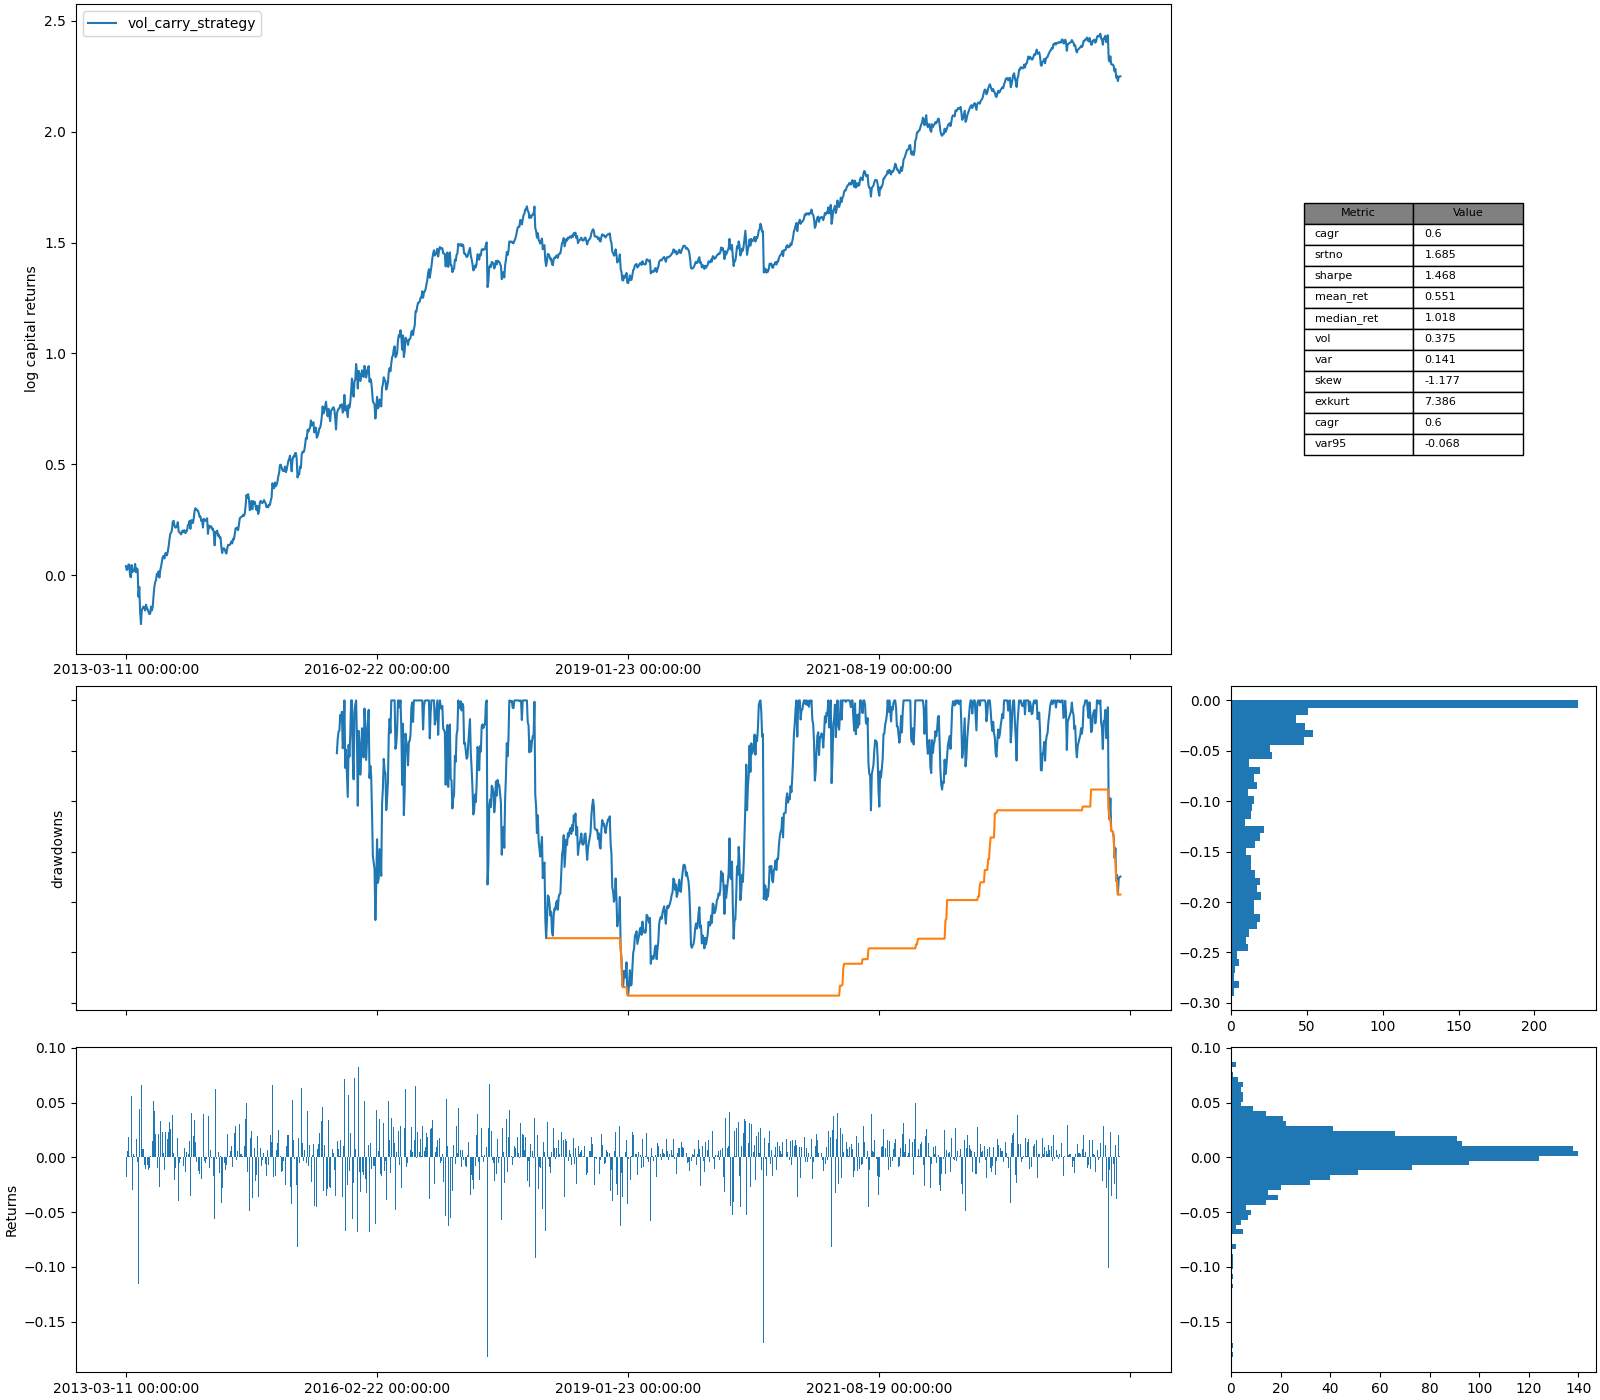
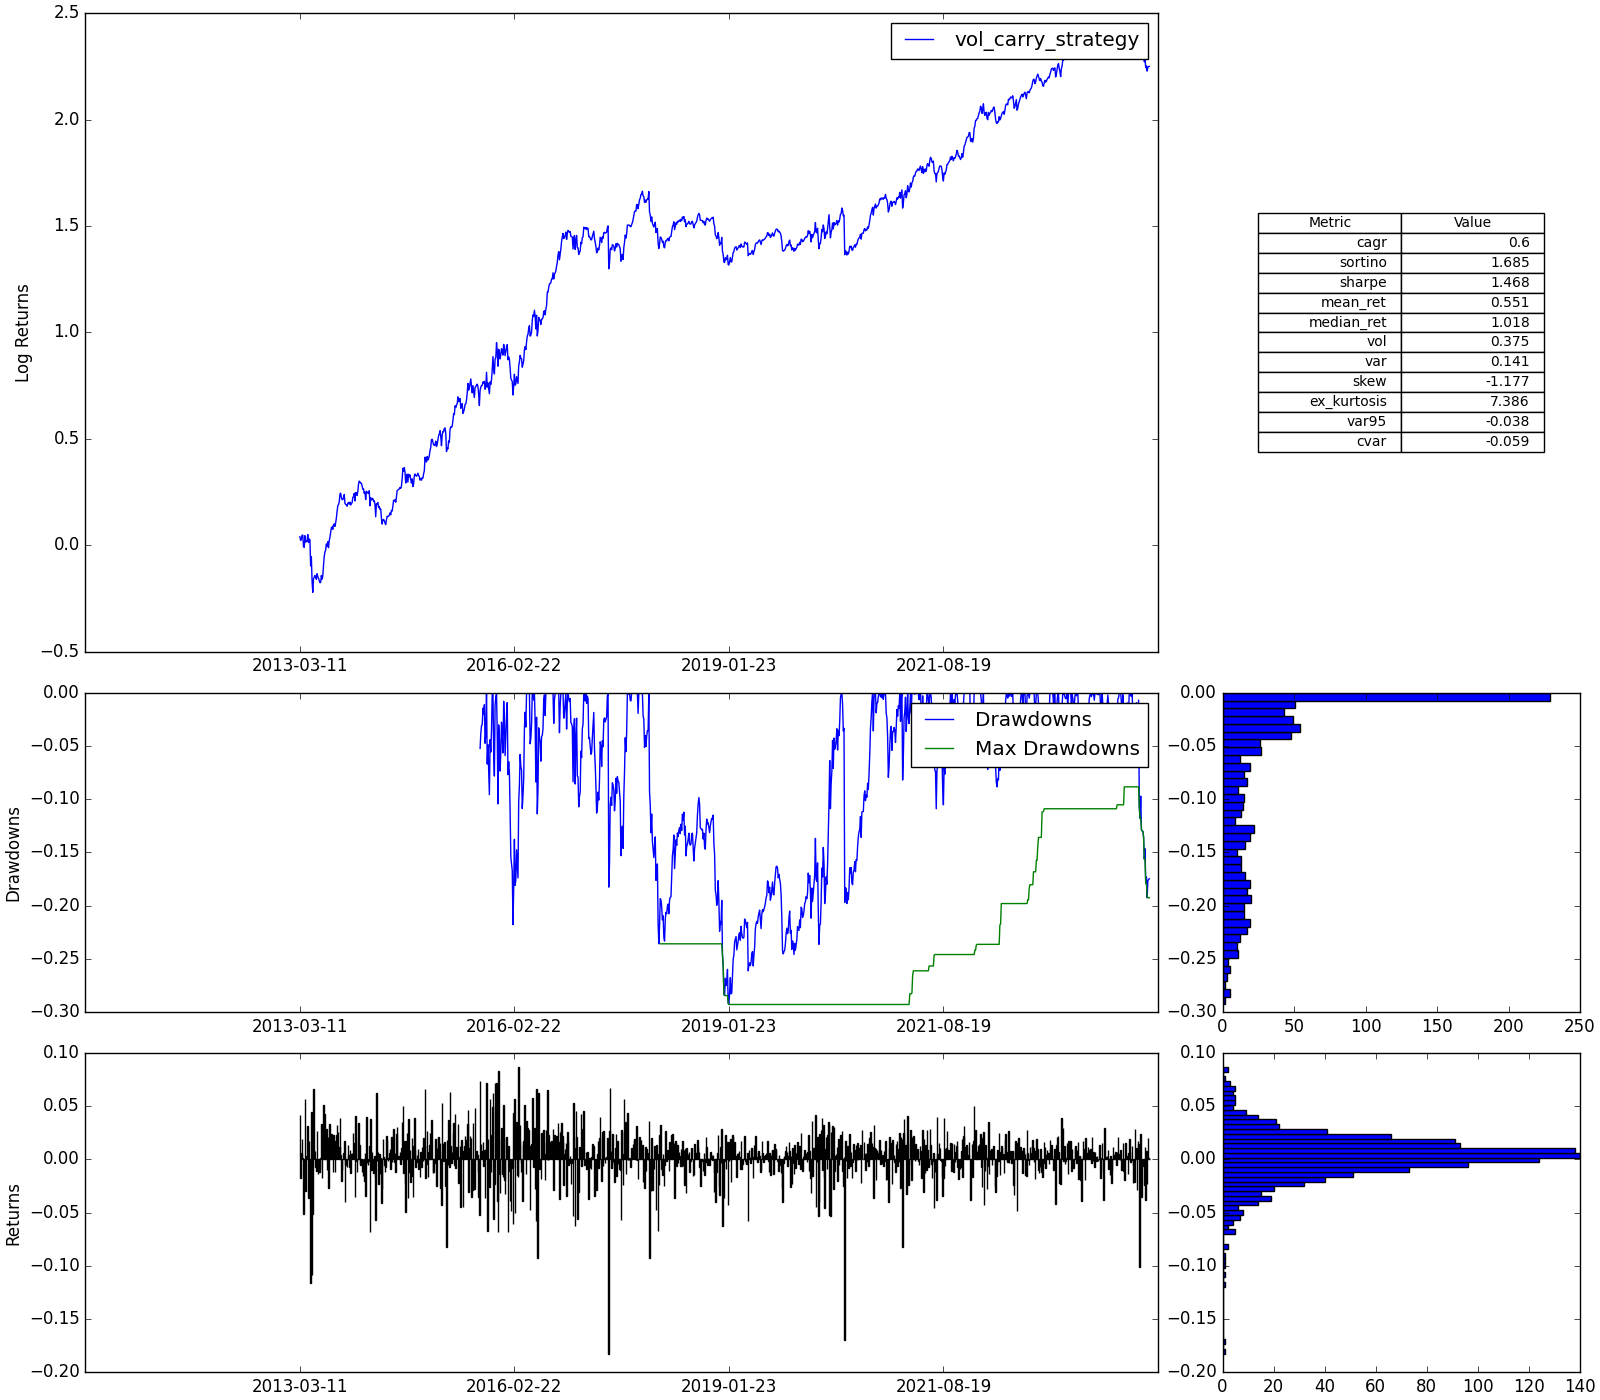
updates

diff --git a/backtester/engine/functions/performance.py b/backtester/engine/functions/performance.py
@@ -7,12 +7,12 @@ import matplotlib.pyplot as plt
 from pathlib import Path
 from typing import Dict, Optional, Union, Tuple
 
-# plt.style.use("seaborn-dark-palette")
+plt.style.use("classic")
 
 def performance_measures(
     r_ser: pd.Series,
     plot: bool = False,
-    path: str = "/images",
+    path: str = "./images",
     market: Optional[Dict[str, pd.Series]] = None,
     show: bool = False,
     strat_name: str = ""
@@ -50,6 +50,8 @@ def performance_measures(
     stdmoment = lambda x, k: moment(x, k) / moment(x, 2) ** (k / 2)
     rolling_drawdown = lambda cr, pr: cr / cr.rolling(pr).max() - 1
     rolling_max_dd = lambda cr, pr: rolling_drawdown(cr, pr).rolling(pr).min()
+    cagr_fn = lambda cr: (cr[-1]/cr[0])**(1/len(cr))-1
+    cagr_ann_fn = lambda cr: ((1+cagr_fn(cr))**253) - 1
 
     # Compute cumulative and log returns
     r = r_ser.values
@@ -67,7 +69,8 @@ def performance_measures(
     variance = vol ** 2
     skewness = stdmoment(r, 3)
     ex_kurtosis = stdmoment(r, 4) - 3
-    cagr = ((cr[-1] / cr[0]) ** (1 / len(cr)) - 1) ** 253  # Annualized CAGR
+    
+    cagr = cagr_ann_fn(cr) # Annualized CAGR
     rolling_cagr = cr_ser.rolling(5 * 253).apply(
         lambda x: ((x[-1] / x[0]) ** (1 / len(x)) - 1) ** 253, raw=True
     )
@@ -77,9 +80,6 @@ def performance_measures(
 
     # Prepare metrics table
     metrics = {
-        "cum_ret": cr,
-        "log_ret": lr,
-        "max_dd": mdd,
         "cagr": cagr,
         "sortino": sortino_ratio,
         "sharpe": sharpe_ratio,
@@ -89,20 +89,19 @@ def performance_measures(
         "var": variance,
         "skew": skewness,
         "ex_kurtosis": ex_kurtosis,
-        "rolling_cagr": rolling_cagr,
-        "rolling_calmar": rolling_calmar,
         "var95": var95,
         "cvar": cvar,
     }
 
     # Plotting performance if requested
     if plot:
-        fig, axes = plt.subplots(4, 4, constrained_layout=True, figsize=(16, 14))
-        idxs = r_ser.index.strftime('%Y-%m-%d %X')
-        strat_names = [strat_name if strat_name else "strategy"]
+        fig = plt.figure(constrained_layout=True, figsize=(16, 14))
+        spec = fig.add_gridspec(4, 4)
 
         # Log returns plot
-        ax1 = fig.add_subplot(axes[0:2, 0:3])
+        ax1 = fig.add_subplot(spec[0:2, 0:3])
+        ax1.xaxis.set_major_locator(plt.MaxNLocator(5))
+        idxs = r_ser.index.strftime('%Y-%m-%d')
         ax1.plot(idxs, lr, label=strat_name)
         if market:
             assert isinstance(market, dict), "Market parameter must be a dictionary of {name: pd.Series}."
@@ -113,31 +112,41 @@ def performance_measures(
         ax1.legend()
 
         # Drawdowns
-        ax2 = fig.add_subplot(axes[2, 0:3], sharex=ax1)
+        ax2 = fig.add_subplot(spec[2, 0:3], sharex=ax1)
+        ax2.xaxis.set_major_locator(plt.MaxNLocator(5))
         ax2.plot(idxs, rolling_drawdown(cr_ser, 253), label="Drawdowns")
         ax2.plot(idxs, rolling_max_dd(cr_ser, 253), label="Max Drawdowns")
         ax2.set_ylabel("Drawdowns")
         ax2.legend()
 
         # Metrics table
+        ax3 = fig.add_subplot(spec[0:2, -1])
         metrics_df = pd.Series(metrics).apply(lambda x: np.round(x, 3)).reset_index()
         metrics_df.columns = ["Metric", "Value"]
-        ax3 = fig.add_subplot(axes[0:2, -1])
         ax3.axis("off")
-        ax3.table(
+        table = ax3.table(
             cellText=metrics_df.values,
             colLabels=metrics_df.columns,
             loc="center",
             colWidths=[0.4, 0.4],
         )
+        table.auto_set_font_size(False)
+        table.set_fontsize(10)
 
-        # Distribution of returns
-        ax4 = fig.add_subplot(axes[2, -1])
+        # Distribution of drawdowns
+        ax4 = fig.add_subplot(spec[2, -1])
         ax4.hist(rolling_drawdown(cr_ser, 253), orientation="horizontal", bins=40)
-        ax5 = fig.add_subplot(axes[-1, 0:3], sharex=ax1)
+
+        # Returns bar chart
+        ax5 = fig.add_subplot(spec[-1, 0:3], sharex=ax1)
+        ax5.xaxis.set_major_locator(plt.MaxNLocator(5))
         ax5.bar(idxs, r)
         ax5.set_ylabel("Returns")
 
+        ax6 = fig.add_subplot(spec[-1,-1], sharey=ax5)
+        ax6.hist(r,orientation='horizontal',bins=60)
+        
+        # Save or show the plot
         if not show:
             Path(os.path.abspath(os.getcwd() + path)).mkdir(parents=True, exist_ok=True)
             fig.savefig(f"{path}/stats_board_{strat_name}.png")
@@ -176,8 +185,8 @@ def plot_hypothesis(
         Saves the plot to a predefined directory.
     """
     # Create output directory if it doesn't exist
-    path = "/images"
-    Path(os.path.abspath(os.getcwd() + path)).mkdir(parents=True, exist_ok=True)
+    path = "./images"
+    # Path(os.path.abspath(os.getcwd() + path)).mkdir(parents=True, exist_ok=True)
 
     # Unpack tuples
     timer_paths, timer_p, timer_dist = timer_tuple
@@ -205,10 +214,10 @@ def plot_hypothesis(
     ax1.legend()
 
     # Plot KDE for distributions
-    input(timer_dist)
-    pd.Series(timer_dist).plot(color='red', ax=ax2, kind='kde', label="Timing Dist")
-    pd.Series(picker_dist).plot(color='blue', ax=ax2, kind='kde', label="Picking Dist")
-    pd.Series(trader_dist).plot(color='green', ax=ax2, kind='kde', label="Trading Dist")
+    dist_check = lambda dist: np.any(np.diff(dist) != 0)
+    if dist_check(timer_dist): pd.Series(timer_dist).plot(color='red', ax=ax2, kind='kde', label="Timing Dist")
+    if dist_check(picker_dist): pd.Series(picker_dist).plot(color='blue', ax=ax2, kind='kde', label="Picking Dist")
+    if dist_check(trader_dist): pd.Series(trader_dist).plot(color='green', ax=ax2, kind='kde', label="Trading Dist")
     strategy_sharpe = np.mean(return_samples.values) / np.std(return_samples.values) * np.sqrt(253)
     ax2.axvline(strategy_sharpe, color='black', linewidth=4, label="Strategy Sharpe")
     ax2.set_title("Distributions and Strategy Sharpe")

diff --git a/main.py b/main.py
@@ -30,15 +30,15 @@ def tactical_main():
 
 if __name__ == "__main__":
 
-    # tactical_strat = tactical_main()
-    # tactical_strat.run_simulation(use_vol_target=True)
-    # tactical_strat.get_perf_stats(plot=True,show=True,strat_name="tactical_strategy",compare=False)
-     
+    tactical_strat = tactical_main()
+    tactical_strat.run_simulation(use_vol_target=True)
+    tactical_strat.run_hypothesis_tests(num_decision_shuffles=100,strat_name="strat_name")
+    tactical_strat.get_perf_stats(plot=True,show=False,strat_name="tactical_strategy",compare=False)
+    
     vol_carry_strat = vol_carry_main()
     vol_carry_strat.run_simulation(use_vol_target=False)
-    vol_carry_strat.run_hypothesis_tests(num_decision_shuffles=100)
-    exit()
-    vol_carry_strat.get_perf_stats(plot=True,show=True,strat_name="vol_carry_strategy",compare=False)
+    vol_carry_strat.run_hypothesis_tests(num_decision_shuffles=100,strat_name="vol_carry_strategy")
+    vol_carry_strat.get_perf_stats(plot=True,show=False,strat_name="vol_carry_strategy",compare=False)
 
     
     tickers, dfs = bundle_strategies({
@@ -48,4 +48,4 @@ if __name__ == "__main__":
 
     combined = BuyHold(insts=tickers, dfs=dfs, start=datetime(2007,1,1), end=datetime(2024,11,12), portfolio_vol=0.15, max_leverage = 1.)
     combined.run_simulation(use_vol_target=True)
-    combined.get_perf_stats(plot=True,show=True,strat_name="combined")
+    combined.get_perf_stats(plot=True,show=False,strat_name="combined")

diff --git a/backtester/engine/simulation_engine.py b/backtester/engine/simulation_engine.py
@@ -259,8 +259,8 @@ class BacktestEngine(TradingFrequencyCalculator):
 
         # Extract specific performance statistics
         stats = [
-            "cagr", "srtno", "sharpe", "mean_ret", "median_ret",
-            "vol", "var", "skew", "exkurt", "var95"
+            "cagr", "sortino", "sharpe", "mean_ret", "median_ret",
+            "vol", "var", "skew", "ex_kurtosis", "var95"
         ]
         return pd.Series({stat: stats_dict[stat] for stat in stats})
 

diff --git a/backtester/vol_carry.py b/backtester/vol_carry.py
@@ -48,7 +48,7 @@ class VolCarry(BacktestEngine):
         neutral_pos = pd.Series(np.zeros(len(trade_range)),index=trade_range)
         temp_alpha = []
         for inst in self.insts:
-            if inst == 'SVXY': temp_alpha.append(short_cond)
+            if inst == "SVXY": temp_alpha.append(short_cond)
             else: temp_alpha.append(neutral_pos)
         
         alpha_df = pd.concat(temp_alpha,axis=1)
